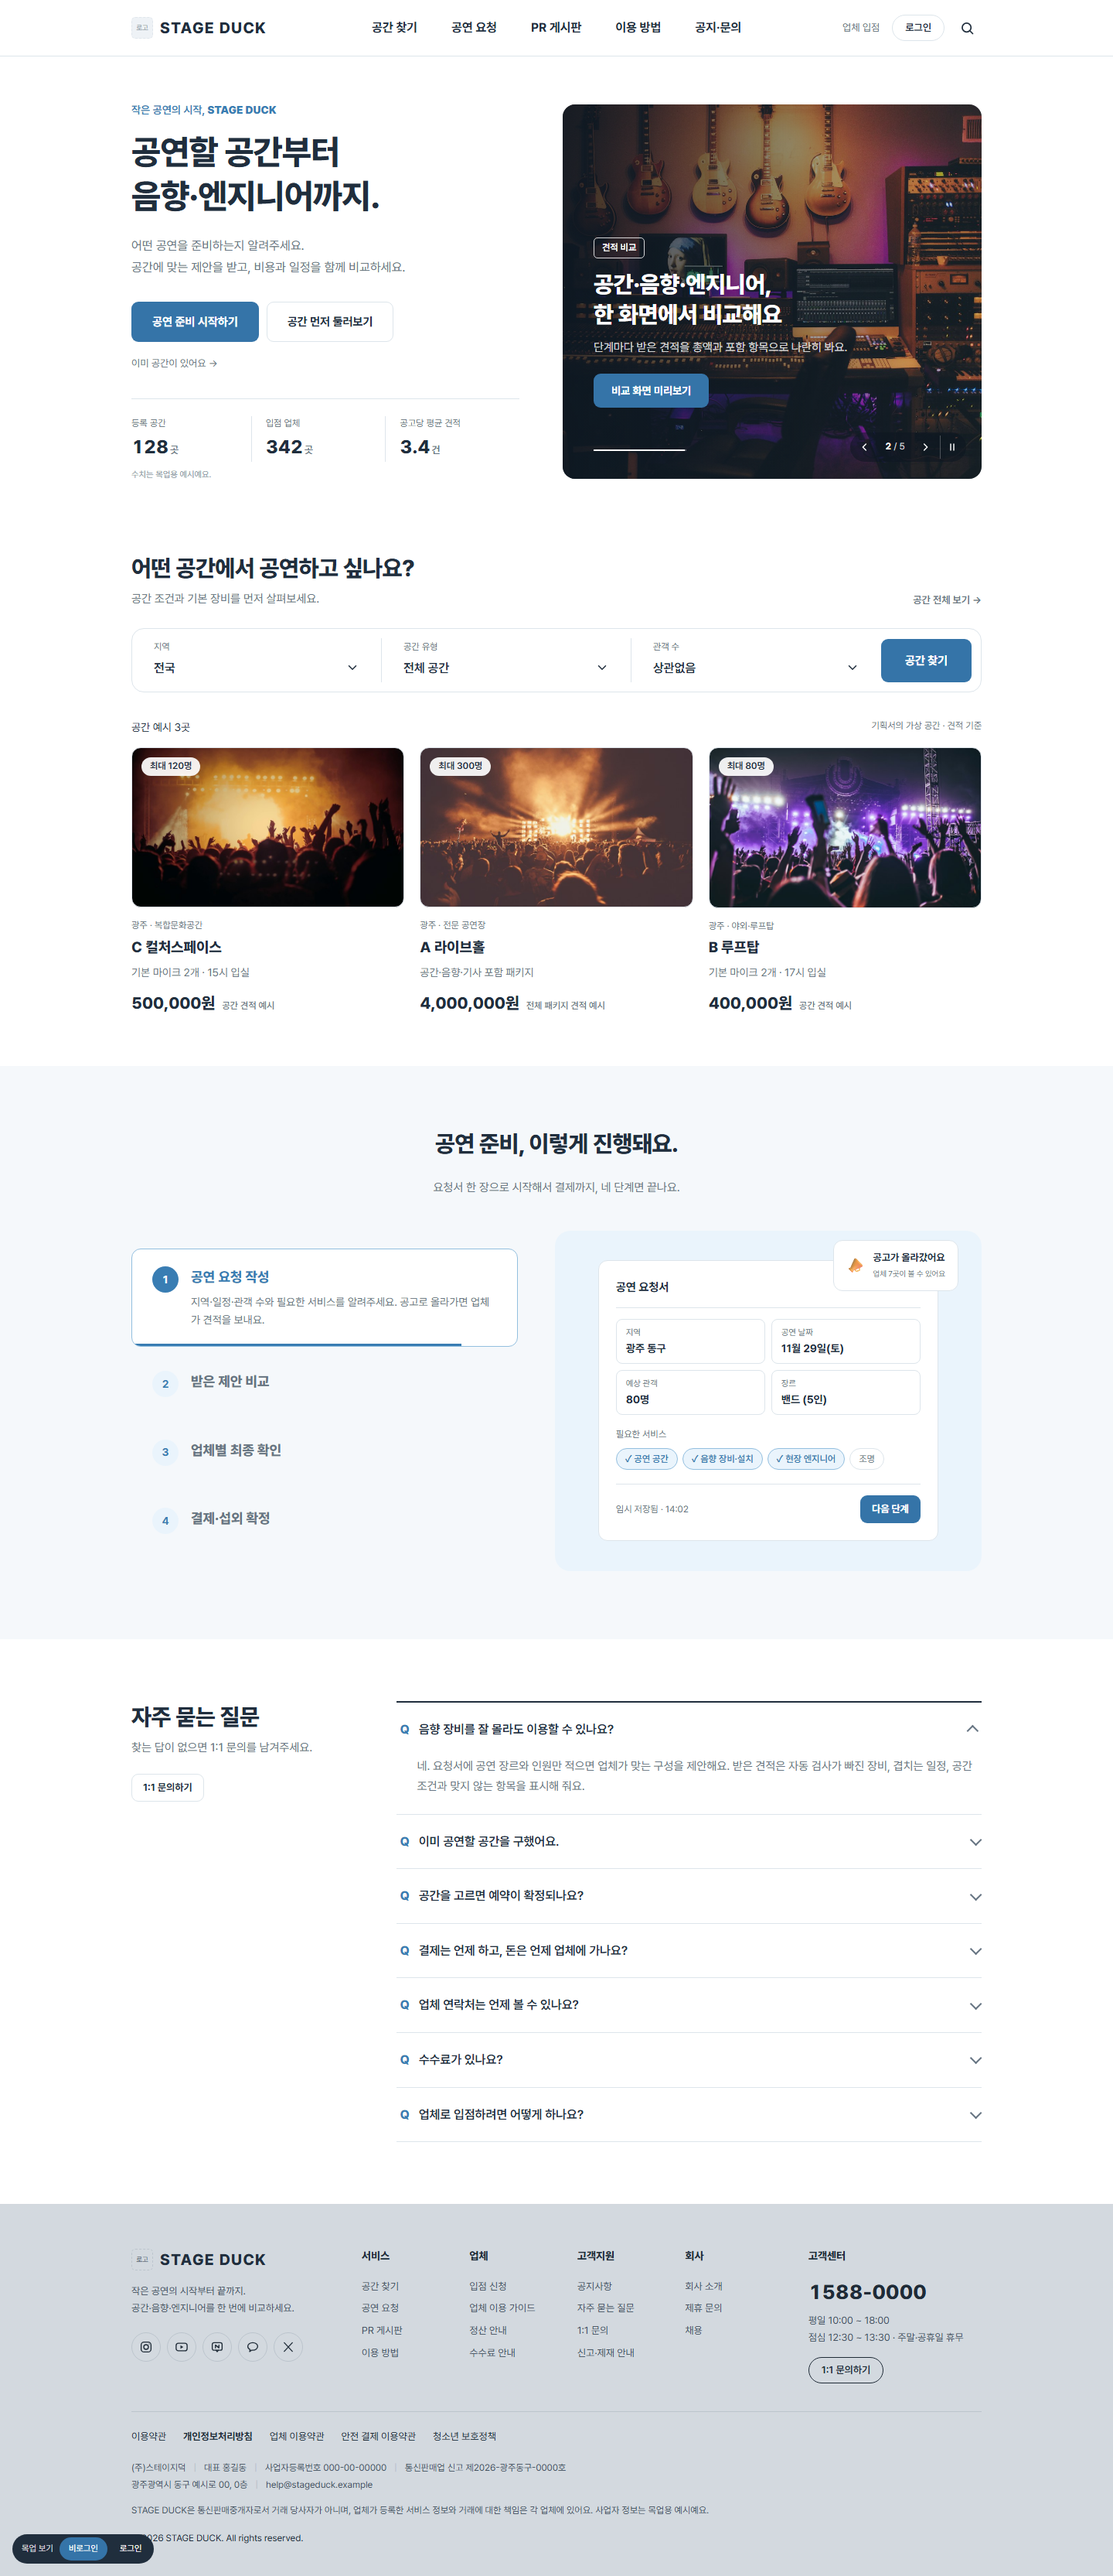
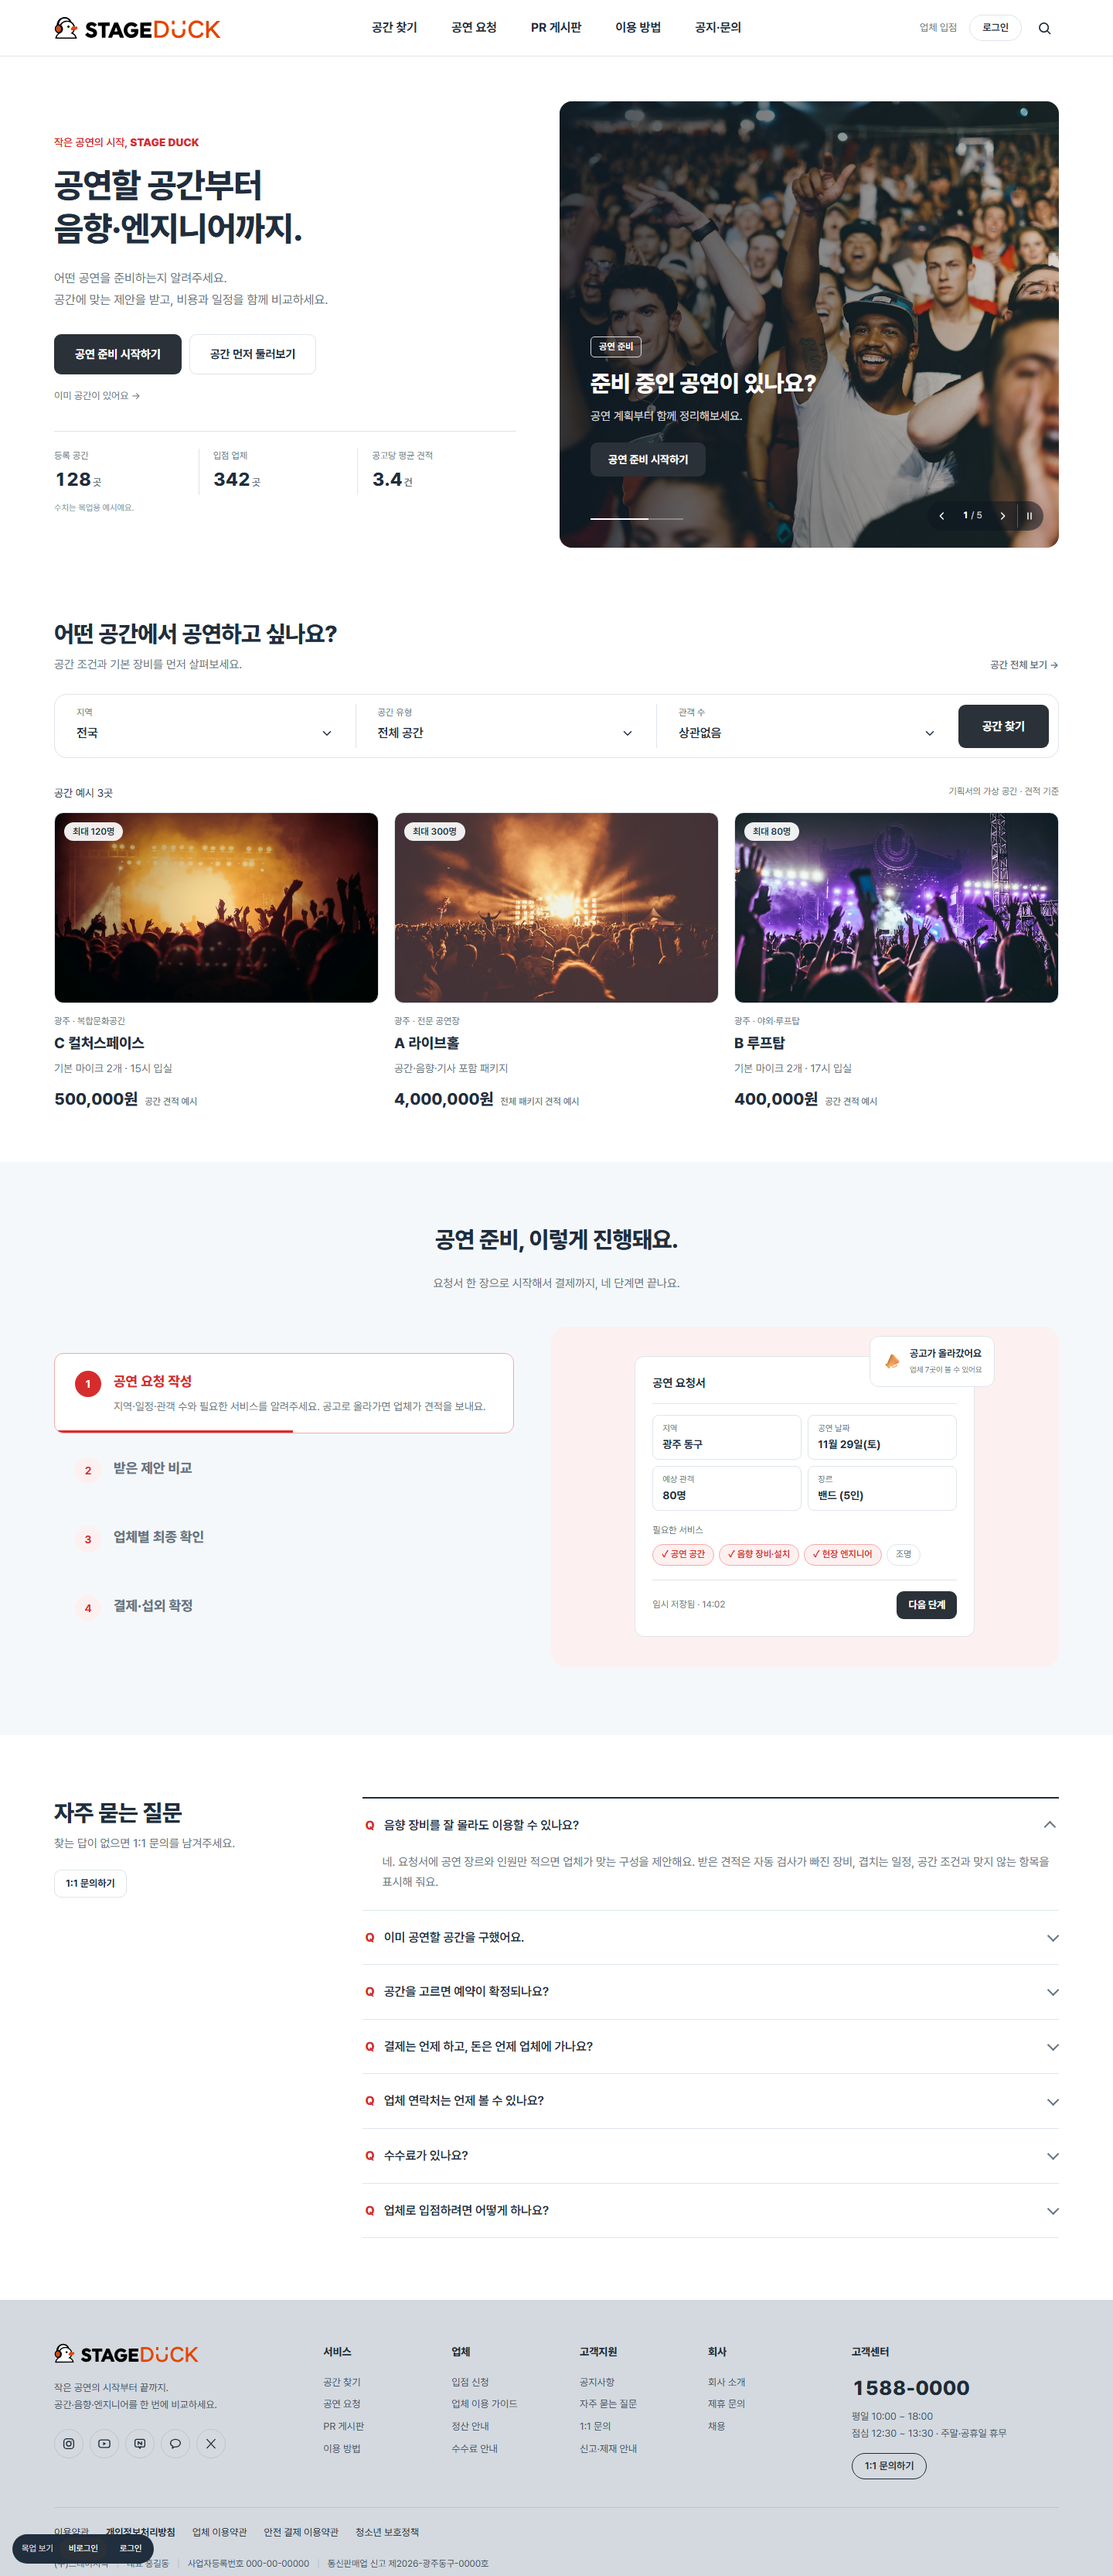
docs: 홈 목업 레드 시안·로고 SVG·본문 폭 1300px (#69)
* docs: 홈 목업 개편 (cinecube 헤더, 히어로 슬라이드·로그인 현황, 이용 방법 단계 전환, FAQ, 사업자 푸터)

* docs: 홈 목업 색 시안 5종 (레드·핑크·스카이·코발트·틸)

* docs: 홈 목업 레드 시안 확정, 본문 폭 1300px, 나머지 시안 삭제

* docs: 홈 목업 로고를 오리 로고(목산님 제작)로 교체

* docs: 팀 로고 이미지를 SVG(logo.svg)로 만들어 목업 헤더·푸터에 적용

* docs: 로고 글자를 텍스트로 (오리만 logo-mark.svg)

* Revert: 로고 글자 텍스트화 되돌림 (logo.svg 다시 사용)

---------

diff --git a/docs/design/mockup/tokens.css b/docs/design/mockup/tokens.css
@@ -25,12 +25,12 @@
   --sd-ink: #202e3d;         /* 본문, 제목 */
   --sd-muted: #677583;       /* 설명, 단위, 메타 */
 
-  /* 강조 (파랑) */
-  --sd-blue: #397db3;        /* 머리말, 링크, 아이콘 */
-  --sd-blue-button: #3574a8; /* 주 버튼 바탕. 흰 글자 대비 5.0:1 (DESIGN.md 2.1 선택지) */
-  --sd-accent: #eaf4fc;      /* 아이콘 뒤 바탕, 단계 번호, 하단 안내 띠, 안내 상자 */
-  --sd-featured: #93bfdf;    /* 추천·선택된 카드 테두리 */
-  --sd-focus: #8cc8ed;       /* 키보드 포커스 테두리 */
+  /* 강조 (레드 시안 확정) */
+  --sd-blue: #d62c2c;        /* 포인트 (레드 시안 #F23636, 글자용으로 조금 어둡게) */
+  --sd-blue-button: #2b3138; /* 주 버튼 바탕 (차콜). 레드는 포인트에만 */
+  --sd-accent: #fdf0f0;      /* 아이콘 뒤 바탕, 단계 번호, 하단 안내 띠, 안내 상자 */
+  --sd-featured: #f5a9a9;    /* 추천·선택된 카드 테두리 */
+  --sd-focus: #f5a9a9;       /* 키보드 포커스 테두리 */
   --sd-on-blue: #ffffff;
 
   /* 상태: 자동 검사 결과 4종. 색만으로 구분하지 않고 아이콘 + 글자를 함께 쓴다 */
@@ -55,7 +55,7 @@
   --sd-text-logo: 20px;
 
   /* 간격 (DESIGN.md 2.4) */
-  --sd-page-width: 1100px;
+  --sd-page-width: 1300px;
   --sd-page-pad: 42px;
   --sd-header-pad: 22px;
   --sd-section-top: 41px;

diff --git a/docs/design/mockup/home.html b/docs/design/mockup/home.html
@@ -20,8 +20,7 @@
 <header class="gnb">
   <div class="gnb__inner">
     <a class="logo" href="#" aria-label="STAGE DUCK 홈">
-      <span class="logo__mark" aria-hidden="true">로고</span>
-      <span class="logo__text">STAGE DUCK</span>
+      <img class="logo__img" src="logo.svg" alt="STAGE DUCK">
     </a>
     <nav class="gnb__menu" aria-label="주 메뉴">
       <a href="#spaces">공간 찾기</a>
@@ -362,7 +361,7 @@
   <div class="wrap">
     <div class="footer__top">
       <div class="footer__brand">
-        <a class="logo" href="#"><span class="logo__mark" aria-hidden="true">로고</span><span class="logo__text">STAGE DUCK</span></a>
+        <a class="logo" href="#"><img class="logo__img" src="logo.svg" alt="STAGE DUCK"></a>
         <p>작은 공연의 시작부터 끝까지.<br>공간·음향·엔지니어를 한 번에 비교하세요.</p>
         <div class="sns">
           <a href="#" aria-label="인스타그램"><svg viewBox="0 0 24 24"><rect x="3.5" y="3.5" width="17" height="17" rx="5"/><circle cx="12" cy="12" r="4"/><circle cx="17.3" cy="6.7" r=".8" class="fill"/></svg></a>

diff --git a/docs/design/mockup/home.css b/docs/design/mockup/home.css
@@ -297,3 +297,7 @@ body.is-user .now.only-user { display: flex !important; }
   .cmp td:nth-child(3), .cmp th:nth-child(3) { display: none; }
   .gnb__right .pill.only-guest { padding: 0 12px; }
 }
+
+/* 로고: logo.svg (팀 로고 이미지를 그대로 따라 그린 SVG). 높이만 정하고 너비는 비율대로 */
+.logo__img { display: block; height: 30px; width: auto; }
+.footer .logo__img { height: 26px; }
